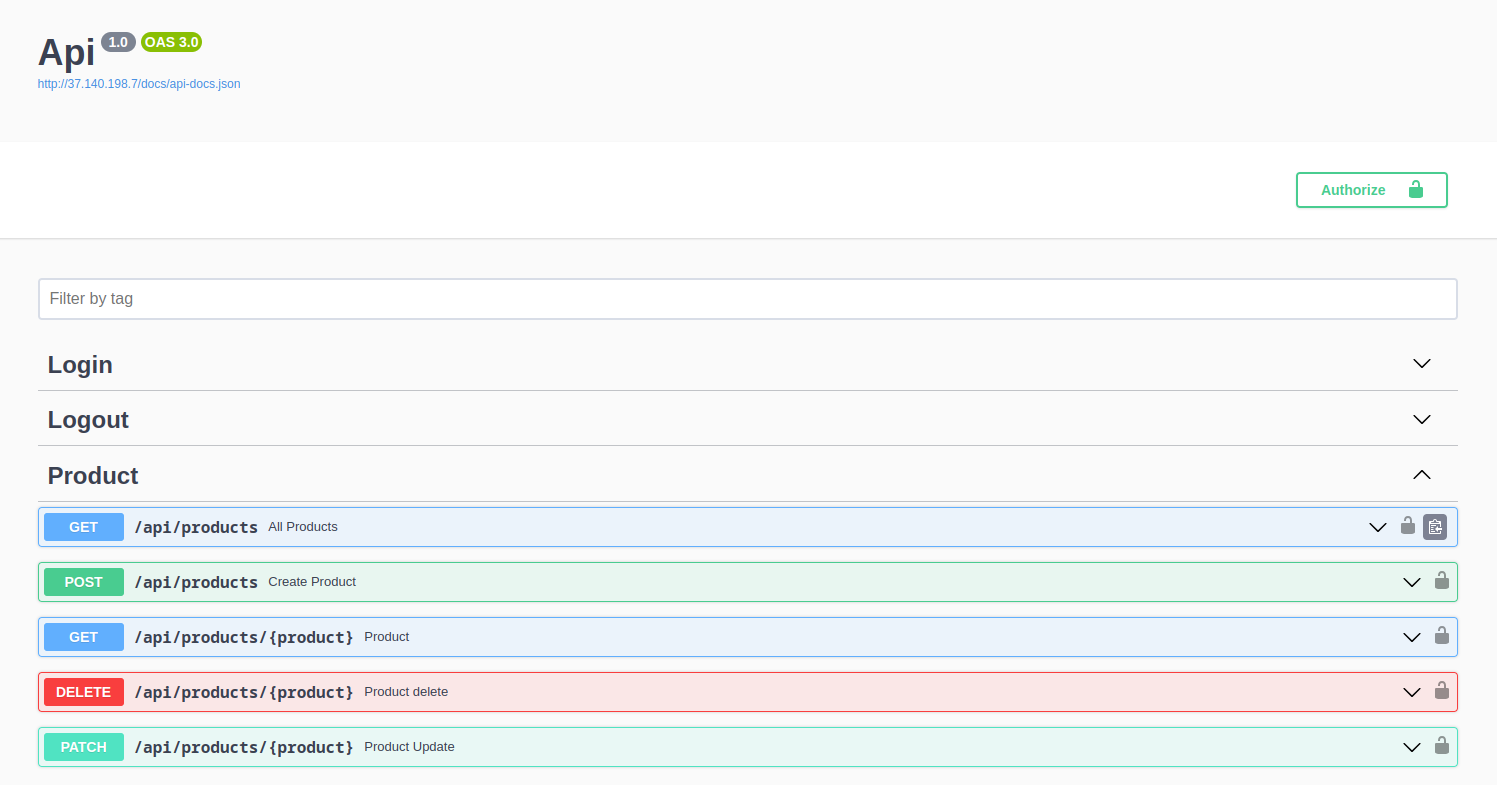
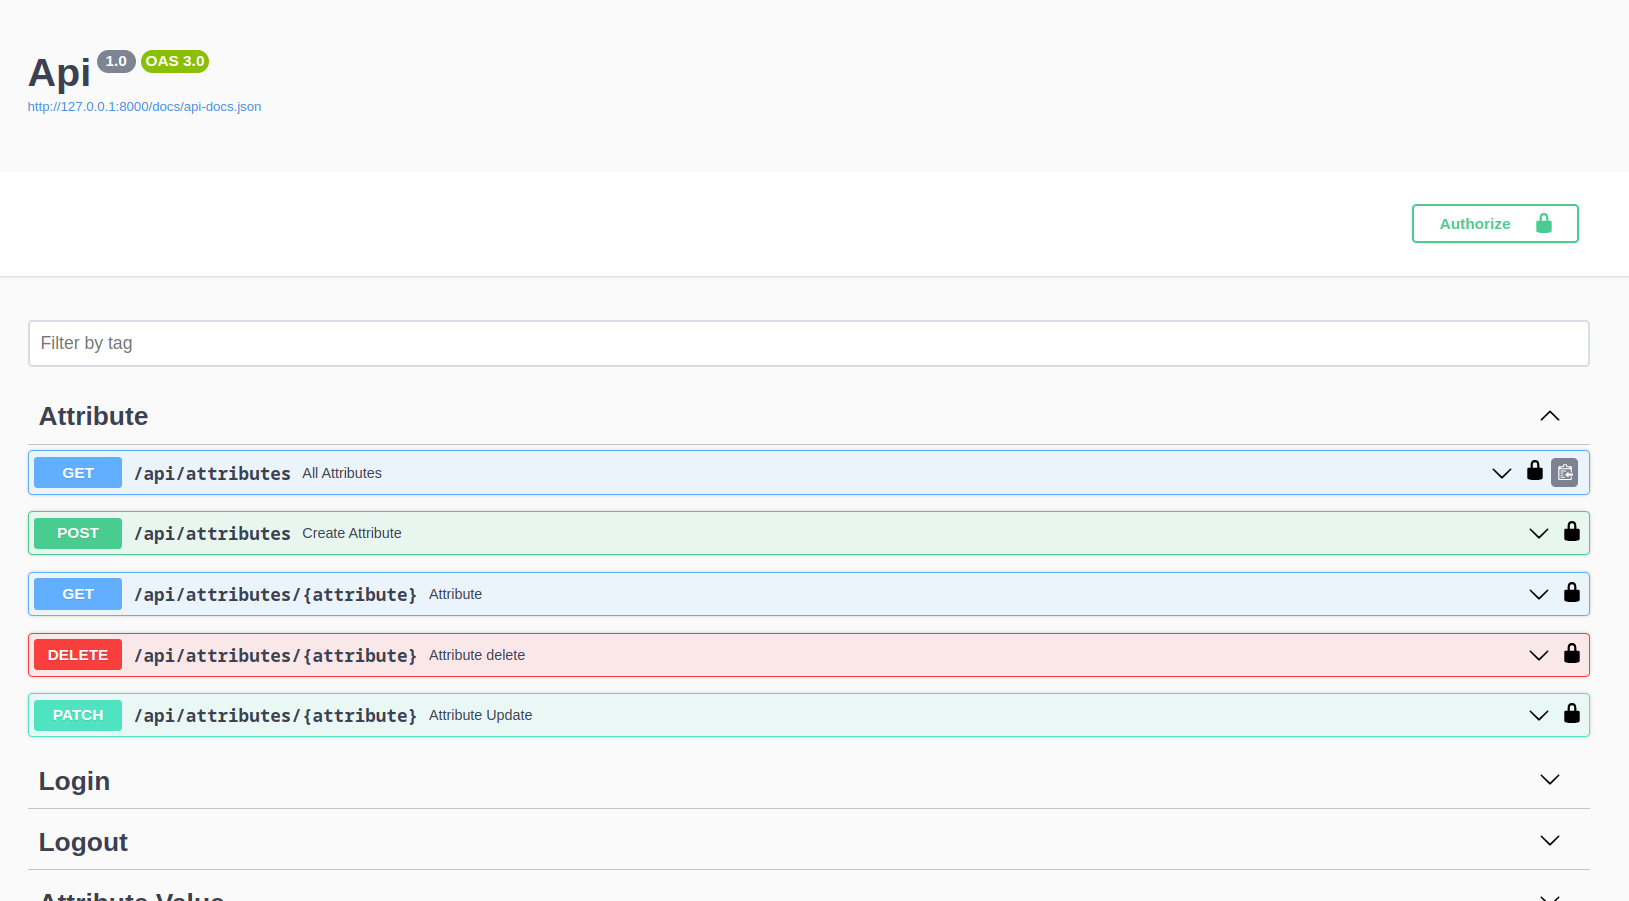
add screen

diff --git a/README.md b/README.md
@@ -25,14 +25,14 @@
 
 ![Swagger](2.png)
 
-### Products
+### Attribute
 
 ![Swagger](3.png)
 
-### Product Filter
-
-![Swagger](6.png)
-
-### Properties
+### Attribute Values
 
 ![Swagger](4.png)
+
+### Products
+
+![Swagger](9.png)
